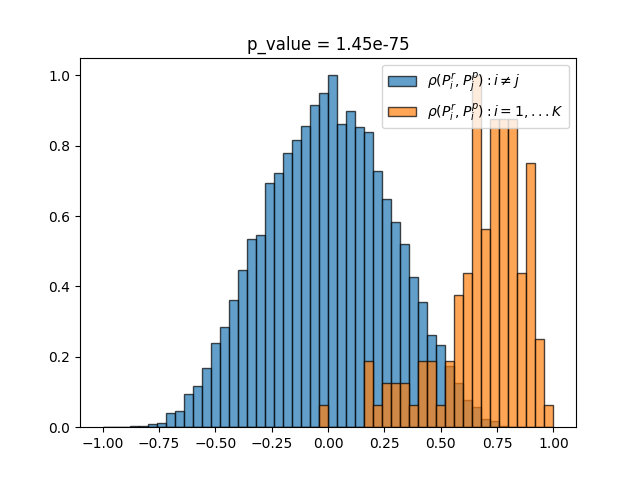
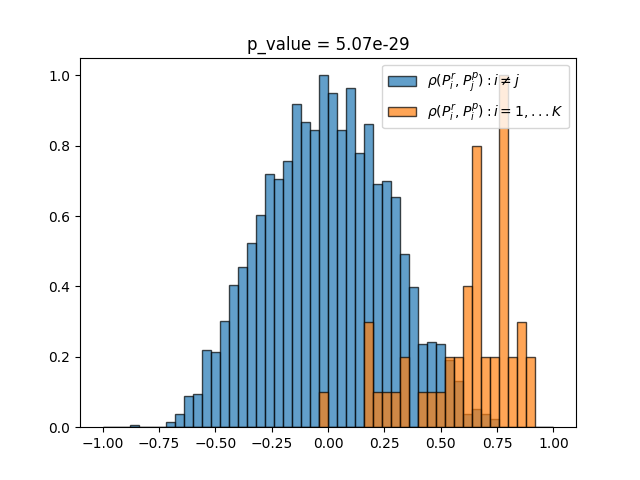
Update method and adding some parameters

diff --git a/utils/utils.py b/utils/utils.py
@@ -8,9 +8,9 @@ from scipy import signal
 from scipy import stats
 
 from numba import njit, prange
+
+
 # import vpv
-
-
 
 
 def normalize(arr):
@@ -314,22 +314,86 @@ def prnu_similarity_profil(prnu, residual, crop_size):
     return ks_pvalue, list_corr, list_corr_i_j
 
 
-def get_witness_corr_distribution(prnu, residual, crop_size):
-    sample_size = len(prnu)
-    signal_size = len(residual)
+def align_and_crop(sig1, sig2, normalize=True, use_fft=True, return_corr=False):
+    """
+    Align two 1D signals of potentially different lengths by maximizing
+    their cross-correlation, then return the overlapping (cropped) region
+    after alignment.
 
-    if sample_size != signal_size:
-        raise ValueError(f'Sample size {sample_size} must be the same as PRNU size {signal_size}')
+    Parameters
+    ----------
+    sig1, sig2 : array-like
+        1D input signals.
+    normalize : bool, default True
+        If True, apply z-score normalization (mean=0, std=1) to make correlation
+        insensitive to scale or DC offset.
+    use_fft : bool, default True
+        If True and SciPy is available, use FFT-based cross-correlation (faster).
+    return_corr : bool, default False
+        If True, also return the correlation curve and lags array.
 
-    # Precompute valid crop indices
-    indices = np.arange(0, sample_size - crop_size, crop_size)
+    Returns
+    -------
+    result : dict
+        {
+          'lag': int,                # optimal shift (sig2 relative to sig1)
+          's1_crop': np.ndarray,     # cropped portion of sig1 after alignment
+          's2_crop': np.ndarray,     # cropped portion of sig2 after alignment
+          'idx1': (start1, end1),    # indices used from sig1 (slice [start1:end1])
+          'idx2': (start2, end2),    # indices used from sig2 (slice [start2:end2])
+          'corr_peak': float,        # correlation value at optimal lag
+          # Optional if return_corr=True:
+          'corr': np.ndarray,
+          'lags':  np.ndarray,
+        }
+    """
+    s1 = np.asarray(sig1, dtype=float)
+    s2 = np.asarray(sig2, dtype=float)
 
-    # Compute correlations using optimized Numba function
-    list_corr, list_corr_i_j = compute_correlations(prnu, residual, indices, crop_size)
+    # Optional z-score normalization
+    if normalize:
+        def zscore(x):
+            std = np.std(x)
+            return (x - np.mean(x)) / std if std > 0 else x - np.mean(x)
 
-    # TODO: get back to original
-    return np.concatenate((list_corr, list_corr_i_j))
-    # return list_corr_i_j
+        s1n, s2n = zscore(s1), zscore(s2)
+    else:
+        s1n, s2n = s1, s2
+
+    # Cross-correlation (full mode)
+    try:
+        from scipy.signal import correlate
+        method = 'fft' if use_fft else 'direct'
+        corr = correlate(s1n, s2n, mode='full', method=method)
+    except Exception:
+        # Fallback without SciPy (O(n^2))
+        corr = np.correlate(s1n, s2n, mode='full')
+
+    lags = np.arange(-len(s2n) + 1, len(s1n))
+    best_idx = int(np.argmax(corr))
+    best_lag = int(lags[best_idx])
+    corr_peak = float(corr[best_idx])
+
+    # Compute overlap indices after alignment
+    start1 = max(best_lag, 0)
+    start2 = max(-best_lag, 0)
+    L = max(0, min(len(s1) - start1, len(s2) - start2))
+
+    s1_crop = s1[start1:start1 + L]
+    s2_crop = s2[start2:start2 + L]
+
+    result = {
+        'lag': best_lag,
+        's1_crop': s1_crop,
+        's2_crop': s2_crop,
+        'idx1': (start1, start1 + L),
+        'idx2': (start2, start2 + L),
+        'corr_peak': corr_peak,
+    }
+    if return_corr:
+        result['corr'] = corr
+        result['lags'] = lags
+    return result
 
 
 def get_sensor_id(path):
@@ -338,103 +402,3 @@ def get_sensor_id(path):
 
 def get_band_id(path):
     return path.split('/')[-1].split('.')[0].split('_')[-1]
-
-
-def get_pvalue(distribution, value):
-    stats, pvalue = scipy.stats.ttest_1samp(distribution, popmean=value, alternative='two-sided')
-    return pvalue
-
-
-def patch_source_eval(prnu_profil, residual, size_x, size_y, interval_size):
-    """
-    Evaluates a patch source by comparing a PRNU profile with a cropped residual.
-
-    Args:
-        prnu_profil (numpy.ndarray): Reference PRNU profile.
-        residual (numpy.ndarray): Residual image data.
-        size_x (int): Width of the cropped profile.
-        size_y (int): Height of the cropped profile.
-        interval_size (int): Interval size for similarity profiling.
-
-    Returns:
-        tuple: (Minimum p-value, position of min p-value, start position of cropped profile)
-    """
-    if len(prnu_profil) < size_x:
-        raise ValueError("PRNU profile length is too short for the given crop size.")
-
-    np.random.seed(1)  # Ensure reproducibility
-
-    # Extract test profile from residual
-    crop_profil_test, start = get_profil_crop(residual, size_x, size_y)
-
-    # Pre-allocate NumPy array for p-values
-    num_samples = len(prnu_profil) - size_x
-    pvalues = np.empty(num_samples, dtype=np.float64)
-
-    # Compute similarity p-values
-    for i in range(num_samples):
-        sample_ref = prnu_profil[i:i + size_x]
-        pvalues[i], _, _ = prnu_similarity_profil(sample_ref, crop_profil_test, interval_size)
-
-    # Compute minimum p-value and its position
-    min_pvalue = np.min(pvalues)
-    min_pos = np.argmin(pvalues)
-
-    return min_pvalue, min_pos, start
-
-
-def patch_source_eval_v1(prnu_profil, witness_distribution, residual, size_x, size_y):
-    """
-    Evaluates a patch source using witness correlation distribution.
-
-    Args:
-        prnu_profil (numpy.ndarray): Reference PRNU profile.
-        profil_witness (numpy.ndarray): Witness profile for correlation distribution.
-        residual (numpy.ndarray): Residual image data.
-        size_x (int): Width of the cropped profile.
-        size_y (int): Height of the cropped profile.
-
-    Returns:
-        tuple: (P-value, position of max correlation, start position of cropped profile)
-    """
-    if len(prnu_profil) < size_x:
-        raise ValueError("PRNU profile length is too short for the given crop size.")
-
-    np.random.seed(1)  # Ensure reproducibility
-
-    # # Get witness correlation distribution
-    # witness_distribution = get_witness_corr_distribution(prnu_profil, profil_witness, size_x)
-
-    # Extract residual profile
-    residual_sample, start = get_profil_crop(residual, size_x, size_y)
-
-    # Precompute mean and standard deviation for residual sample
-    mean_residual = np.mean(residual_sample)
-    std_residual = np.std(residual_sample)
-
-    # Number of comparisons
-    num_samples = len(prnu_profil) - size_x
-
-    # Pre-allocate NumPy array for correlation coefficients
-    corrs = np.empty(num_samples, dtype=np.float64)
-
-    # Compute correlation for each sample
-    for i in range(num_samples):
-        sample_ref = prnu_profil[i:i + size_x]
-
-        # Compute mean and standard deviation for the PRNU sample
-        mean_prnu = np.mean(sample_ref)
-        std_prnu = np.std(sample_ref)
-
-        # Compute Pearson correlation manually (faster than np.corrcoef in loops)
-        corrs[i] = np.sum((sample_ref - mean_prnu) * (residual_sample - mean_residual)) / (
-                size_x * std_prnu * std_residual)
-
-    # Compute max correlation and its position
-    max_corr = np.max(corrs)
-    max_pos = np.argmax(corrs)
-
-    # Get p-value
-    pvalue = get_pvalue(witness_distribution, max_corr)
-
-    return pvalue, max_pos, start

diff --git a/main.py b/main.py
@@ -13,12 +13,25 @@ ROOT = os.path.dirname(os.path.realpath(__file__))
 
 def main(refence, test, crop_size):
     # Compute profils
-    prnu_ref = get_profil(refence)
-    prnu_test = get_profil(test)
+    s1 = get_profil(refence)
+    s2 = get_profil(test)
+
+    # Crop
+    s1 = s1
+    s2 = s2[1000:2000]
 
     # Compare signals
-    p_value, list_corr, list_corr_ij = prnu_similarity_profil(prnu_ref, prnu_test, crop_size)
+    if len(s1) == len(s2):
+        p_value, list_corr, list_corr_ij = prnu_similarity_profil(s1, s2, crop_size)
+    else:
+        results = align_and_crop(s1, s2, normalize=True, use_fft=True, return_corr=False)
+        s1_crop = results['s1_crop']
+        s2_crop = results['s2_crop']
+        offset = results['lag']
+        p_value, list_corr, list_corr_ij = prnu_similarity_profil(s1_crop, s2_crop, crop_size)
+
     print(f'p_value: {p_value}')
+    print(f'best offset: {offset}')
 
     if p_value < 1e-6:
         print(f'Images come from the same source')
@@ -60,6 +73,7 @@ if __name__ == "__main__":
     parser.add_argument("-r", "--reference", type=str, required=True)
     parser.add_argument("-t", "--test", type=str, required=True)
     parser.add_argument("-s", "--crop_size", type=int, default=20, required=False)
+    parser.add_argument("-f", "--filter", type=str, default='rank', required=False)
 
     args = parser.parse_args()
     main(args.reference, args.test, args.crop_size)
